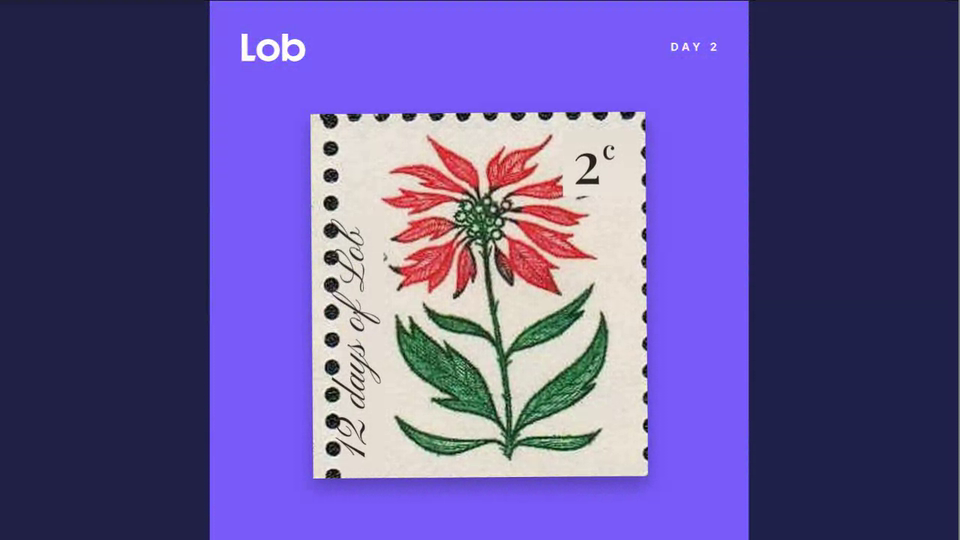
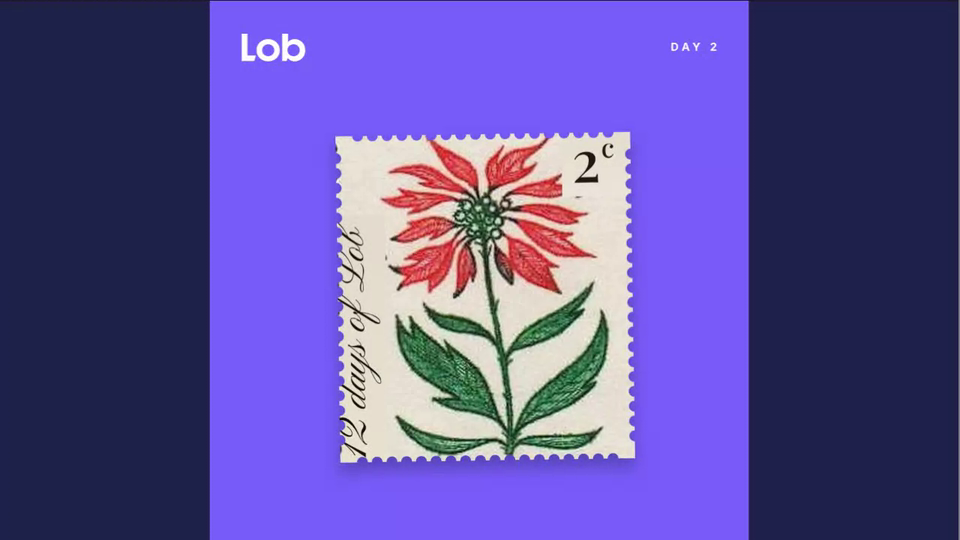
Lob 12 Days Stamps: integrated stamp text, perforated mask (#696)
* Add Lob 12 Days Advent, a 1:1 advent calendar motion post

Claude-Session: https://claude.ai/code/session_01AHeBe1gGHXNgX6SWfG6dpU

* Lob 12 Days Advent: perforated holiday stamp illustrations in Lob pink and purple on blue, generous negative space

Claude-Session: https://claude.ai/code/session_01AHeBdxfESGkB61WPERPkmT

* Lob 12 Days Advent: bigger stamps, odometer number, fly-in and per-illustration motion, closer stamp frames

Claude-Session: https://claude.ai/code/session_01AHeBdxfESGkB61WPERPkmT

* Lob 12 Days Advent: two-pass stamp rework, jagged tree, hatching, hollow snow rings, clean frame gaps, art fitted to frames

Claude-Session: https://claude.ai/code/session_01AHeBdxfESGkB61WPERPkmT

* Lob 12 Days Advent: botanical Christmas bouquet in the Our Planet Week style

Claude-Session: https://claude.ai/code/session_01AHeBdxfESGkB61WPERPkmT

* Lob 12 Days Advent: bouquet on a square stamp, alternating green/purple/pink/orange backgrounds, navy title, spaced caps labels

Claude-Session: https://claude.ai/code/session_01AHeBdxfESGkB61WPERPkmT

* Lob 12 Days Advent: real Lob logo, 12 days of Lob top right, Christmas botanicals, direct mail titles, no progress bar, fuller stamp corners

Claude-Session: https://claude.ai/code/session_01AHeBdxfESGkB61WPERPkmT

* Lob 12 Days Advent: muted green background, one consistent title size

Claude-Session: https://claude.ai/code/session_01AHeBdxfESGkB61WPERPkmT

* Brickanta Enterprise: no border on the footer mask, moved right
[…]

Changed region(s): [[0.3125, 0.2074, 0.6875, 0.9185]]

diff --git a/lob-12-days-stamps/index.html b/lob-12-days-stamps/index.html
@@ -75,38 +75,93 @@ const imgs=STAMPS.map(sp=>{const im=new Image();im.onload=()=>build();im.src=sp.
 const FAM=[['UnifrakturMaguntia',400],['Pinyon Script',400],['Pixelify Sans',700],['Great Vibes',400],['Playfair Display',500],['Playfair Display',600],['Playfair Display',700],['Cinzel',700],['Barlow Condensed',600],['Barlow Condensed',700],['Cormorant Garamond',600],['Roboto Slab',500]];
 /* each stamp gets its printed wording painted out and re-lettered in its own style: the postage becomes the day number and the name becomes the 12 days of Lob label */
 const EDITS=[
- (E,n,L)=>{E.fill(36,34,72,48,[34,60]);E.num(n,'¢',44,76,'Playfair Display',54,'#fff',700);E.fill(28,314,298,66,[34,322]);E.text(L,177,366,{font:'UnifrakturMaguntia',size:44,color:'#fff',al:'center',fit:280})},
- (E,n,L)=>{E.fillV(252,18,78,66,[292,16],[292,90]);E.num(n,'c',262,72,'Playfair Display',58,'#2a2322',500);E.fill(28,104,44,258,[76,200]);E.text(L,52,232,{font:'Pinyon Script',size:42,color:'#2a2527',al:'center',rot:-Math.PI/2,fit:240})},
- (E,n,L)=>{E.fillV(252,262,78,76,[296,258],[296,346]);E.num(n,'c',262,318,'Playfair Display',58,'#2a2322',500);E.fill(28,326,262,48,[150,372]);E.text(L,32,360,{font:'Pinyon Script',size:40,color:'#2a2527',fit:250})},
- (E,n,L)=>{E.tile(210,2,90,34,205,38,104,96);E.num(n,'¢',215,118,'Pixelify Sans',84,'#111',700);E.tile(22,2,270,34,14,410,296,56);E.text(L.toUpperCase(),160,452,{font:'Pixelify Sans',size:46,color:'#E32B4A',al:'center',wt:700,fit:290})},
- (E,n,L)=>{E.fill(36,206,192,72,[28,250]);E.text(L,40,266,{font:'Great Vibes',size:54,color:'#1E8A4A',fit:168});E.fill(360,236,64,54,[350,280]);E.text(String(n),372,284,{font:'Playfair Display',size:58,color:'#1E8A4A',wt:700})},
- (E,n,L)=>{E.fill(30,26,84,68,[118,104]);E.text(String(n),40,86,{font:'Playfair Display',size:76,color:'#fff',wt:600});E.fill(44,374,208,56,'#0b0b0d');E.text(L,46,418,{font:'Playfair Display',size:38,color:'#fff',wt:700,fit:205})},
- (E,n,L)=>{E.fill(30,3,322,48,[30,30]);E.text(L.toUpperCase(),198,38,{font:'Cinzel',size:34,color:'#3B3512',al:'center',wt:700,fit:288});E.fill(262,72,46,34,'#0b0a0a');E.text(String(n),266,102,{font:'Playfair Display',size:54,color:'#D9B13E',wt:500})},
- (E,n,L)=>{E.fill(226,442,128,38,'#fff');E.text(n+'¢',340,472,{font:'Barlow Condensed',size:40,color:'#DA4B33',al:'right',wt:700});E.fill(18,340,28,134,'#fff');E.text(L.toUpperCase(),32,470,{font:'Barlow Condensed',size:16,color:'#DE6F60',rot:-Math.PI/2,ls:2,wt:600,fit:126})},
- (E,n,L)=>{E.fill(44,334,130,26,[190,340]);E.text(n+'¢',48,356,{font:'Barlow Condensed',size:32,color:'#4B6DB6',wt:700});E.fill(44,270,26,62,[100,300]);E.text(L.toUpperCase(),58,330,{font:'Barlow Condensed',size:16,color:'#7B7BC8',rot:-Math.PI/2,ls:2,wt:700,fit:140})},
- (E,n,L)=>{E.clone(316,44,18,136,336,44,26,136);E.text(n+'¢',348,176,{font:'Barlow Condensed',size:26,color:'#fff',rot:-Math.PI/2,wt:700,ls:2});E.fill(56,424,216,44,'#130a1a');E.text(L,58,462,{font:'Cormorant Garamond',size:40,color:'#CFCFC0',wt:600,fit:214})},
- (E,n,L)=>{E.clone(414,174,14,128,430,174,28,128);E.text(n+'¢',444,296,{font:'Barlow Condensed',size:28,color:'#fff',rot:-Math.PI/2,wt:700,ls:2});E.clone(364,304,12,34,376,304,82,34);const w=L.toUpperCase().split(' '),m=Math.ceil(w.length/2);E.text(w.slice(0,m).join(' '),452,321,{font:'Barlow Condensed',size:16,color:'#fff',al:'right',wt:700,ls:2,fit:74});E.text(w.slice(m).join(' '),452,336,{font:'Barlow Condensed',size:16,color:'#fff',al:'right',wt:700,ls:2,fit:74})},
- (E,n,L)=>{E.fill(28,418,334,44,'#fff');E.text(n+'¢ * '+L.toUpperCase(),194,448,{font:'Roboto Slab',size:23,color:'#8F8F8F',al:'center',wt:500,ls:3,fit:322})}
+ /* 1 wreath */ (E,n,L)=>{const ip=E.ink(34,32,74,52);E.inp(34,32,74,52,{sides:'lrtb'});E.num(n,'¢',44,76,'Playfair Display',54,ip,700);
+   const ib=E.ink(31,314,292,64);E.inp(31,314,292,64,{sides:'lr'});E.text(L,177,366,{font:'UnifrakturMaguntia',size:44,color:ib,al:'center',fit:280})},
+ /* 2 poinsettia */ (E,n,L)=>{const ip=E.ink(252,16,80,70);E.grad(252,22,80,64,[292,24],[292,92]);E.num(n,'c',262,72,'Playfair Display',58,ip,500);
+   const ib=E.ink(28,102,46,262);E.grad(28,102,46,262,[84,150],[84,300]);E.text(L,52,232,{font:'Pinyon Script',size:42,color:ib,al:'center',rot:-Math.PI/2,fit:240})},
+ /* 3 holly */ (E,n,L)=>{const ip=E.ink(252,262,80,66);E.grad(252,262,80,78,[296,258],[296,346]);E.num(n,'c',262,318,'Playfair Display',58,ip,500);
+   const ib=E.ink(28,326,262,48);E.grad(28,324,262,52,[150,322],[150,376]);E.text(L,32,360,{font:'Pinyon Script',size:40,color:ib,fit:250})},
+ /* 4 tree */ (E,n,L)=>{const ip=E.ink(205,36,106,96);E.tile(210,2,90,34,205,38,106,96);E.num(n,'¢',215,118,'Pixelify Sans',84,ip,700);
+   const ib=E.ink(16,408,296,57);E.tile(22,2,270,34,14,410,296,56);E.text(L.toUpperCase(),160,452,{font:'Pixelify Sans',size:46,color:ib,al:'center',wt:700,fit:290})},
+ /* 5 dove */ (E,n,L)=>{const ib=E.ink(36,204,196,76);E.grad(36,208,180,60,[34,196],[34,290]);E.text(L,40,262,{font:'Great Vibes',size:50,color:ib,fit:165});
+   const ip=E.ink(360,234,64,56);E.grad(362,230,86,66,[352,228],[352,302]);E.text(String(n),392,284,{font:'Playfair Display',size:58,color:ip,wt:700})},
+ /* 6 reindeer */ (E,n,L)=>{E.fill(30,26,84,68,[118,104]);E.text(String(n),40,86,{font:'Playfair Display',size:76,color:'#fff',wt:600});
+   E.fill(44,374,196,56,'#0b0b0d');E.text(L,46,418,{font:'Playfair Display',size:38,color:'#fff',wt:700,fit:190})},
+ /* 7 madonna */ (E,n,L)=>{const ib=E.ink(30,3,322,48);E.inp(30,3,322,48,{sides:'lr',noise:.8});E.text(L.toUpperCase(),198,38,{font:'Cinzel',size:34,color:ib,al:'center',wt:700,fit:288});
+   const ip=E.ink(262,72,46,34);E.inp(262,72,46,34,{sides:'lrtb',noise:1});E.text(String(n),266,102,{font:'Playfair Display',size:54,color:ip,wt:500})},
+ /* 8 pine */ (E,n,L)=>{const ip=E.ink(226,442,128,38);E.fill(226,442,128,38,'#fff');E.text(n+'¢',340,472,{font:'Barlow Condensed',size:40,color:ip,al:'right',wt:700});
+   const ib=E.ink(18,340,28,134);E.fill(18,340,28,134,'#fff');E.text(L.toUpperCase(),32,470,{font:'Barlow Condensed',size:16,color:ib,rot:-Math.PI/2,ls:2,wt:600,fit:126})},
+ /* 9 sleigh */ (E,n,L)=>{const ip=E.ink(44,334,130,26);E.inp(44,334,130,26,{sides:'lrtb'});E.text(n+'¢',48,356,{font:'Barlow Condensed',size:32,color:ip,wt:700});
+   const ib=E.ink(44,270,26,62);E.inp(44,270,26,62,{sides:'lr'});E.text(L.toUpperCase(),58,330,{font:'Barlow Condensed',size:16,color:ib,rot:-Math.PI/2,ls:2,wt:700,fit:140})},
+ /* 10 star */ (E,n,L)=>{E.clone(316,44,18,136,336,44,26,136);E.text(n+'¢',348,176,{font:'Barlow Condensed',size:26,color:'#fff',rot:-Math.PI/2,wt:700,ls:2});
+   const ib=E.ink(56,424,216,44);E.inp(56,424,216,44,{sides:'lr',noise:.7});E.text(L,58,462,{font:'Cormorant Garamond',size:40,color:ib,wt:600,fit:214})},
+ /* 11 lamb */ (E,n,L)=>{E.clone(414,174,14,128,430,174,28,128);E.text(n+'¢',444,296,{font:'Barlow Condensed',size:28,color:'#fff',rot:-Math.PI/2,wt:700,ls:2});E.clone(364,304,12,34,376,304,82,34);
+   const w=L.toUpperCase().split(' '),m=Math.ceil(w.length/2);E.text(w.slice(0,m).join(' '),452,321,{font:'Barlow Condensed',size:16,color:'#fff',al:'right',wt:700,ls:2,fit:74});E.text(w.slice(m).join(' '),452,336,{font:'Barlow Condensed',size:16,color:'#fff',al:'right',wt:700,ls:2,fit:74})},
+ /* 12 santa */ (E,n,L)=>{const ib=E.ink(28,418,334,44);E.fill(28,418,334,44,'#fff');E.text(n+'¢ * '+L.toUpperCase(),194,448,{font:'Roboto Slab',size:23,color:ib,al:'center',wt:500,ls:3,fit:322})}
 ];
+/* the perforated mask: every stamp is cut to a scalloped edge inset from the artwork (left, top, right, bottom) */
+const INSET=[[9,9,9,9],[26,22,14,16],[26,22,12,18],[9,9,9,9],[9,9,9,9],[9,9,9,10],[9,9,9,12],[9,9,9,9],[9,9,9,15],[9,9,9,9],[9,9,9,9],[9,9,9,13]];
+function perfPath(g,x0,y0,x1,y1,pitch,r){
+  const nx=Math.max(2,Math.round((x1-x0)/pitch)),ny=Math.max(2,Math.round((y1-y0)/pitch)),sx=(x1-x0)/nx,sy=(y1-y0)/ny;
+  g.beginPath();g.moveTo(x0,y0);
+  for(let i=1;i<nx-1;i++){const cx=x0+(i+.5)*sx;g.lineTo(cx-r,y0);g.arc(cx,y0,r,Math.PI,0,true)}
+  g.lineTo(x1,y0);
+  for(let j=1;j<ny-1;j++){const cy=y0+(j+.5)*sy;g.lineTo(x1,cy-r);g.arc(x1,cy,r,-Math.PI/2,Math.PI/2,true)}
+  g.lineTo(x1,y1);
+  for(let i=nx-2;i>=1;i--){const cx=x0+(i+.5)*sx;g.lineTo(cx+r,y1);g.arc(cx,y1,r,0,Math.PI,true)}
+  g.lineTo(x0,y1);
+  for(let j=ny-2;j>=1;j--){const cy=y0+(j+.5)*sy;g.lineTo(x0,cy+r);g.arc(x0,cy,r,Math.PI/2,-Math.PI/2,true)}
+  g.closePath()}
+function rnd(seed){let a=seed>>>0;return()=>{a=(a+0x6D2B79F5)>>>0;let t=a;t=Math.imul(t^t>>>15,t|1);t^=t+Math.imul(t^t>>>7,t|61);return((t^t>>>14)>>>0)/4294967296}}
 function build(){
   proc=STAMPS.map((sp,i)=>{
     const im=imgs[i];if(!im.complete||!im.naturalWidth)return null;
     const o=document.createElement('canvas');o.width=sp.w;o.height=sp.h;const og=o.getContext('2d',{willReadFrequently:true});og.drawImage(im,0,0,sp.w,sp.h);
     const c=document.createElement('canvas');c.width=sp.w*2;c.height=sp.h*2;const g=c.getContext('2d');g.scale(2,2);g.drawImage(im,0,0,sp.w,sp.h);
-    const col=(px,py)=>{const d=og.getImageData(Math.max(0,px-1),Math.max(0,py-1),3,3).data;let r=0,gg=0,b=0;for(let k=0;k<9;k++){r+=d[k*4];gg+=d[k*4+1];b+=d[k*4+2]}return 'rgb('+Math.round(r/9)+','+Math.round(gg/9)+','+Math.round(b/9)+')'};
+    const px=(a,b,w,h)=>{a=Math.max(0,Math.min(sp.w-1,Math.round(a)));b=Math.max(0,Math.min(sp.h-1,Math.round(b)));w=Math.max(1,Math.min(sp.w-a,Math.round(w)));h=Math.max(1,Math.min(sp.h-b,Math.round(h)));return og.getImageData(a,b,w,h).data};
+    const col=(a,b)=>{const d=px(a-1,b-1,3,3);let r=0,gg=0,bb=0;for(let k=0;k<9;k++){r+=d[k*4];gg+=d[k*4+1];bb+=d[k*4+2]}return 'rgb('+Math.round(r/9)+','+Math.round(gg/9)+','+Math.round(bb/9)+')'};
     const E={
-      fill(a,b,w,h,c){g.fillStyle=Array.isArray(c)?col(c[0],c[1]):c;g.fillRect(a,b,w,h)},
-      fillV(a,b,w,h,c1,c2){const gr=g.createLinearGradient(0,b,0,b+h);gr.addColorStop(0,col(c1[0],c1[1]));gr.addColorStop(1,col(c2[0],c2[1]));g.fillStyle=gr;g.fillRect(a,b,w,h)},
-      clone(sx,sy,sw,sh,dx,dy,dw,dh){g.drawImage(o,sx,sy,sw,sh,dx,dy,dw,dh)},
+      fill(a,b,w,h,cc){g.fillStyle=Array.isArray(cc)?col(cc[0],cc[1]):cc;g.fillRect(a,b,w,h)},
+      /* blend the area in from the artwork just outside it, with matching grain, so the painted-out wording leaves no patch */
+      inp(a,b,w,h,{sides='lrtb',noise=1}={}){
+        w=Math.round(w);h=Math.round(h);a=Math.round(a);b=Math.round(b);
+        const L=sides.includes('l')?px(a-3,b,3,h):null,R=sides.includes('r')?px(a+w,b,3,h):null,T=sides.includes('t')?px(a,b-3,w,3):null,B=sides.includes('b')?px(a,b+h,w,3):null;
+        const avgCol=(d,len,stride,idx)=>{let r=0,gg=0,bb=0;for(let k=0;k<3;k++){const q=(stride===0?idx*3+k:k*len+idx)*4;r+=d[q];gg+=d[q+1];bb+=d[q+2]}return[r/3,gg/3,bb/3]};
+        const lc=[],rc=[],tc=[],bc=[];
+        for(let j=0;j<h;j++){if(L)lc[j]=avgCol(L,w,0,j);if(R)rc[j]=avgCol(R,w,0,j)}
+        for(let i=0;i<w;i++){if(T)tc[i]=avgCol(T,w,1,i);if(B)bc[i]=avgCol(B,w,1,i)}
+        const ring=[...(L?lc:[]),...(R?rc:[]),...(T?tc:[]),...(B?bc:[])];let sd=0;
+        if(ring.length){const mean=[0,1,2].map(k=>ring.reduce((q,v)=>q+v[k],0)/ring.length);sd=Math.sqrt(ring.reduce((q,v)=>q+[0,1,2].reduce((z,k)=>z+(v[k]-mean[k])**2,0),0)/ring.length/3)}
+        const rn=rnd(i*977+a*13+b),t=document.createElement('canvas');t.width=w;t.height=h;const tg=t.getContext('2d'),id=tg.createImageData(w,h);
+        for(let j=0;j<h;j++)for(let i2=0;i2<w;i2++){
+          const u=w>1?i2/(w-1):0,v=h>1?j/(h-1):0,parts=[];
+          if(L&&R)parts.push([0,1,2].map(k=>(1-u)*lc[j][k]+u*rc[j][k]));else if(L)parts.push(lc[j]);else if(R)parts.push(rc[j]);
+          if(T&&B)parts.push([0,1,2].map(k=>(1-v)*tc[i2][k]+v*bc[i2][k]));else if(T)parts.push(tc[i2]);else if(B)parts.push(bc[i2]);
+          const c0=parts.length?[0,1,2].map(k=>parts.reduce((q,p2)=>q+p2[k],0)/parts.length):[200,200,200],nz=(rn()+rn()+rn()-1.5)*sd*.9*noise,q=(j*w+i2)*4;
+          id.data[q]=Math.max(0,Math.min(255,c0[0]+nz));id.data[q+1]=Math.max(0,Math.min(255,c0[1]+nz));id.data[q+2]=Math.max(0,Math.min(255,c0[2]+nz));id.data[q+3]=255}
+        tg.putImageData(id,0,0);g.drawImage(t,a,b,w,h)},
+      /* a smooth fill between two sampled colours with paper grain; dir 'v' blends top to bottom, 'h' left to right */
+      grad(a,b,w,h,c1,c2,dir='v',noise=3.2){
+        const rgb=c=>{const d=px(c[0]-1,c[1]-1,3,3);let r=0,gg=0,bb=0;for(let k=0;k<9;k++){r+=d[k*4];gg+=d[k*4+1];bb+=d[k*4+2]}return[r/9,gg/9,bb/9]},A=rgb(c1),B=rgb(c2);
+        const t=document.createElement('canvas');t.width=w;t.height=h;const tg=t.getContext('2d'),id=tg.createImageData(w,h),rn=rnd(a*31+b*7+w);
+        for(let j=0;j<h;j++)for(let i2=0;i2<w;i2++){const u=dir==='v'?(h>1?j/(h-1):0):(w>1?i2/(w-1):0),nz=(rn()+rn()+rn()-1.5)*noise,q=(j*w+i2)*4;
+          for(let k=0;k<3;k++)id.data[q+k]=Math.max(0,Math.min(255,A[k]*(1-u)+B[k]*u+nz));id.data[q+3]=255}
+        tg.putImageData(id,0,0);g.drawImage(t,a,b,w,h)},
       tile(sx,sy,sw,sh,dx,dy,dw,dh){g.save();g.beginPath();g.rect(dx,dy,dw,dh);g.clip();for(let yy=dy;yy<dy+dh;yy+=sh)for(let xx=dx;xx<dx+dw;xx+=sw)g.drawImage(o,sx,sy,sw,sh,xx,yy,sw,sh);g.restore()},
-      text(str,px,py,{font='serif',size=30,color='#000',al='left',rot=0,ls=0,wt=400,fit=0}){
-        g.save();g.translate(px,py);if(rot)g.rotate(rot);g.fillStyle=color;g.textAlign=al;g.textBaseline='alphabetic';let sz=size;
+      /* the colour of the original lettering: the pixels furthest from the area's typical colour */
+      ink(a,b,w,h){const d=px(a,b,w,h),n=d.length/4,med=[0,1,2].map(k=>{const v=[];for(let q=0;q<n;q++)v.push(d[q*4+k]);v.sort((x1,y1)=>x1-y1);return v[n>>1]}),arr=[];
+        for(let q=0;q<n;q++){const dd=(d[q*4]-med[0])**2+(d[q*4+1]-med[1])**2+(d[q*4+2]-med[2])**2;arr.push([dd,q])}arr.sort((x1,y1)=>y1[0]-x1[0]);
+        const m=Math.max(4,Math.round(n*.04));let r=0,gg=0,bb=0;for(let q=0;q<m;q++){const k=arr[q][1];r+=d[k*4];gg+=d[k*4+1];bb+=d[k*4+2]}return 'rgb('+Math.round(r/m)+','+Math.round(gg/m)+','+Math.round(bb/m)+')'},
+      clone(sx,sy,sw,sh,dx,dy,dw,dh){g.drawImage(o,sx,sy,sw,sh,dx,dy,dw,dh)},
+      text(str,a,b,{font='serif',size=30,color='#000',al='left',rot=0,ls=0,wt=400,fit=0}){
+        g.save();g.translate(a,b);if(rot)g.rotate(rot);g.fillStyle=color;g.textAlign=al;g.textBaseline='alphabetic';let sz=size;
         const set=()=>{g.font=wt+' '+sz+'px "'+font+'",serif';g.letterSpacing=ls+'px'};set();
-        if(fit){let w=g.measureText(str).width;if(w>fit){sz=sz*fit/w;set()}}
-        g.fillText(str,0,0);g.restore()},
-      num(n,suf,px,py,font,size,color,wt){g.save();g.fillStyle=color;g.textBaseline='alphabetic';g.font=wt+' '+size+'px "'+font+'",serif';g.letterSpacing='0px';g.fillText(String(n),px,py);const w=g.measureText(String(n)).width;g.font=wt+' '+(size*.46)+'px "'+font+'",serif';g.fillText(suf,px+w+1,py-size*.42);g.restore()}
+        if(fit){const w=g.measureText(str).width;if(w>fit){sz=sz*fit/w;set()}}
+        g.filter='blur(.45px)';g.fillText(str,0,0);g.restore()},
+      num(n,suf,a,b,font,size,color,wt){g.save();g.fillStyle=color;g.textBaseline='alphabetic';g.filter='blur(.45px)';g.font=wt+' '+size+'px "'+font+'",serif';g.letterSpacing='0px';g.fillText(String(n),a,b);const w=g.measureText(String(n)).width;g.font=wt+' '+(size*.46)+'px "'+font+'",serif';g.fillText(suf,a+w+1,b-size*.42);g.restore()}
     };
     EDITS[i](E,i+1,label);
+    const ins=INSET[i];g.save();g.globalCompositeOperation='destination-in';perfPath(g,ins[0],ins[1],sp.w-ins[2],sp.h-ins[3],15,5.4);g.fillStyle='#000';g.fill();g.restore();
     return c});
 }
 Promise.all(FAM.map(f=>document.fonts.load(f[1]+' 30px "'+f[0]+'"').catch(()=>0))).then(()=>document.fonts.ready).then(build);
